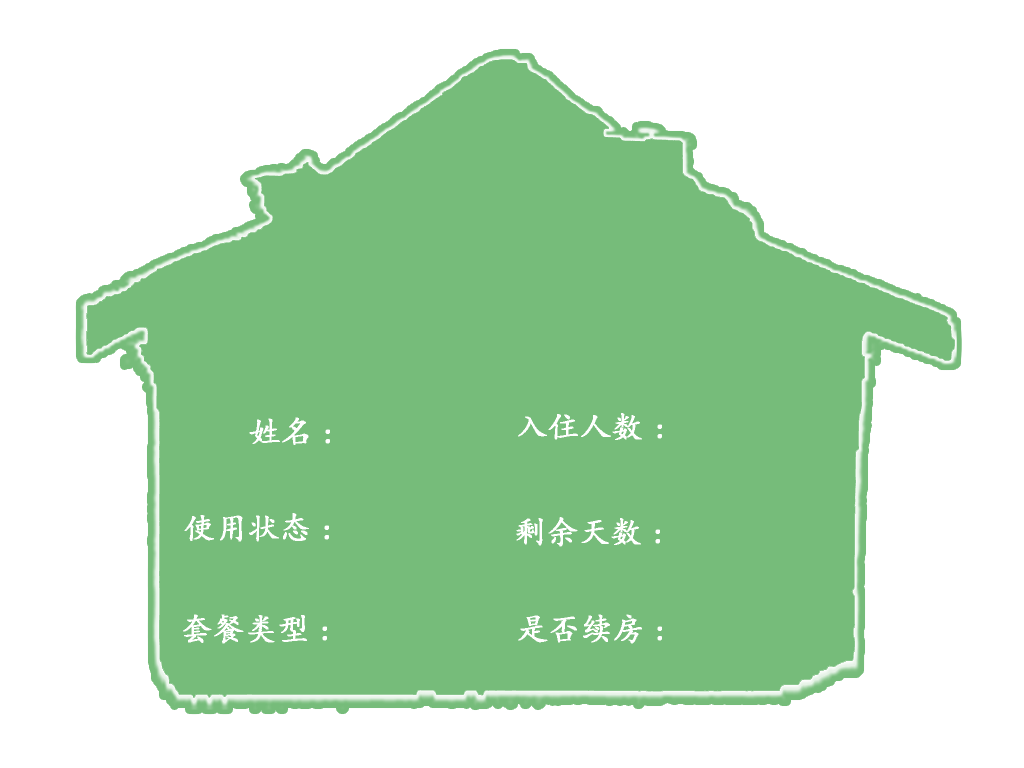
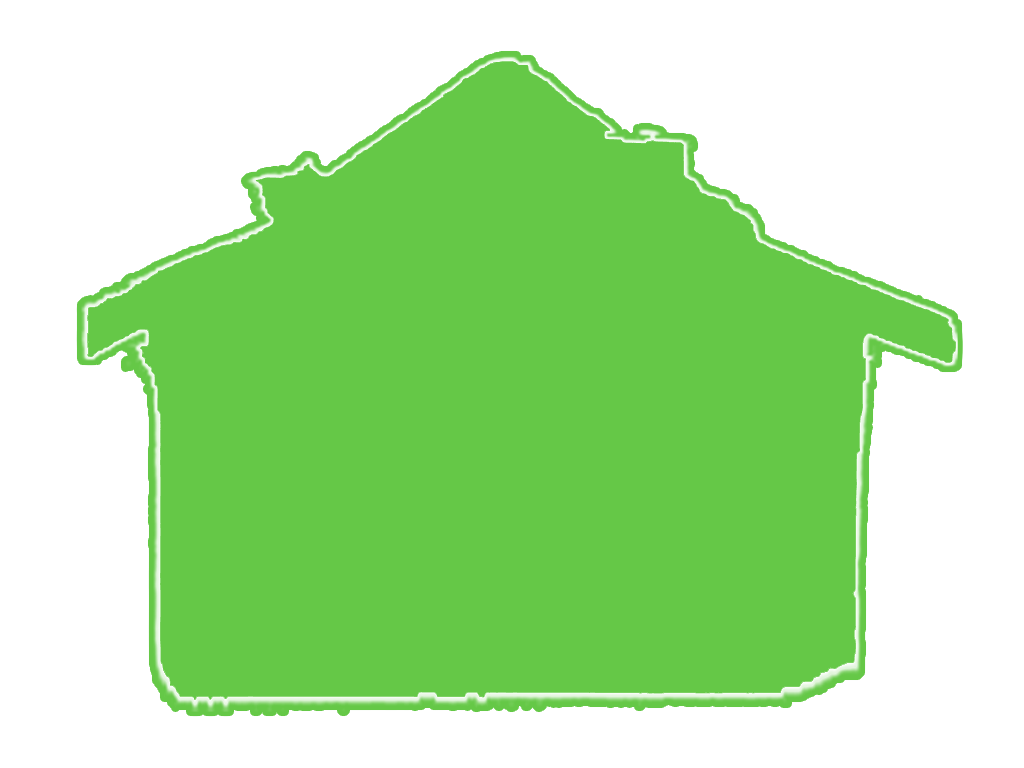
数据对接

diff --git a/js/room.js b/js/room.js
@@ -1,14 +1,101 @@
 /**
  * Created by Administrator on 2018/04/10.
  */
-window.onload = function() {
-    var bh = document.getElementById('body').offsetHeight;
-    var hh = document.getElementById('header').offsetHeight;
-    var fh = document.getElementById('footer').offsetHeight;
-    var sh = bh - hh -fh - 50;
-    document.getElementById('content').style.height = sh + 'px';
-    // console.log(bh);
-    // console.log(hh);
-    // console.log(fh);
-    // console.log(sh);
+var page = 1;  //定义是第几页
+var pageSize = 3; //定义一页几条数据
+var userId = '523C4656-83F7-4AEE-91AB-775F6CE94CE3'; //用户Id
+var allPage = 1;    //总页数
+
+function getList(parameter) {
+    $.ajax({
+        type: "post",
+        data: {
+            "procedureName": 'usp_fangjiansyqk',
+            "parameter": parameter
+        },
+        url: "http://120.78.174.170:86/WebService/BaseInfo.asmx/WebExecProcedure",   //后台url
+        success: function (data) {
+            var roomInfo = eval(eval(data));//所有房间信息
+            var str = "";
+            var state = "";
+            var showInfo = "none"; //是否显示房间信息
+            var showFree = "none"; //是否显示空闲中
+            for (var k in roomInfo.ds1) {
+                //根据使用状态显示背景图以及是否显示房间信息
+                switch (roomInfo.ds1[k].usezt) {
+                    case 1:
+                        console.log("free空闲中...");
+                        state = "free.png";
+                        showInfo = "none";
+                        showFree = "inline-block";
+                        str
+                        break;
+                    case 2:
+                        console.log("reservation已预约...");
+                        state = "reservation.png";
+                        showInfo = "inline-block";
+                        showFree = "none";
+                        break;
+                    case 3:
+                        console.log("using使用中...");
+                        state = "using.png";
+                        showInfo = "inline-block";
+                        showFree = "none";
+                        break;
+                    case 4:
+                        console.log("renew已续费...");
+                        state = "renew.png";
+                        showInfo = "inline-block";
+                        showFree = "none";
+                        break;
+                }
+                str += "<div class=" + "room" + ">"
+                    + "<a href=" + "'http://120.78.174.170:85'" + "><img src=" + "../img/" + state + "></a>"
+                    + "<a class=" + "roomNum" + ">" + roomInfo.ds1[k].name + "</a>"
+                    + "<div class=" + "detailTitle" + " style='display:" + showInfo + "'>"
+                    + "<a>姓&nbsp;&nbsp;&nbsp;&nbsp;&nbsp;&nbsp;名:</a>"
+                    + "<p>入住人数:</p>"
+                    + "<p>使用状态:</p>"
+                    + "<p>剩余天数:</p>"
+                    + "</div>"
+                    + "<div class=" + "detailContent" + " style='display:" + showInfo + "'>"
+                    + "<a>" + roomInfo.ds1[k].name + "</a>"
+                    + "<p>" + roomInfo.ds1[k].ruzhurs + "</p>"
+                    + "<p>" + roomInfo.ds1[k].usezt + "</p>"
+                    + "<p>" + roomInfo.ds1[k].shiyongts + "</p>"
+                    + "</div>"
+                    + "<div class=" + "isFree" + " style='display: " + showFree + "'>空闲中...</div>"
+                    + "</div>";
+
+            }
+            $("#content").html(str);
+
+        }
+    })
+
+};
+
+function showPagination(allPage) {
+    $.ajax({
+        type: "post",
+        data: {
+            "procedureName": 'usp_fangjiansyqk',
+            "parameter": parameter
+        },
+        url: "http://120.78.174.170:86/WebService/BaseInfo.asmx/WebExecProcedure",   //后台url
+        success: function (data) {
+            var roomInfo = eval(eval(data));//所有房间信息
+            var totalPage = roomInfo.ds2[0].pageNum;//总页数
+            $.jqPaginator('#pagination', {
+                totalPages: totalPage,
+                visiblePages: 10,//显示分页条数
+                currentPage: 1
+            });
+        }
+    })
 }
+
+
+var parameter = "'" + userId + "','" + pageSize + "','" + page + "'";
+getList(parameter);
+showPagination(allPage);

diff --git a/room/room.html b/room/room.html
@@ -3,6 +3,7 @@
 <head>
     <meta charset="UTF-8">
     <title>房间</title>
+    <link type="text/css" rel="stylesheet" href="http://cdn.staticfile.org/twitter-bootstrap/3.1.1/css/bootstrap.min.css"/>
     <link href="../css/room.css" rel="stylesheet" type="text/css"/>
 </head>
 <body id="body">
@@ -16,35 +17,28 @@
         <p>Room usage</p>
     </div>
     <div id="navBar">
-        <a>首页</a>|
-        <a>客户管理</a>|
-        <a>资源管理</a>|
-        <a>库存查询</a>|
-        <a>合同单据</a>
+        <a href="http://120.78.174.170:85">首页</a>|
+        <a href="http://120.78.174.170:85">客户管理</a>|
+        <a href="http://120.78.174.170:85">资源管理</a>|
+        <a href="http://120.78.174.170:85">库存查询</a>|
+        <a href="http://120.78.174.170:85">合同单据</a>
     </div>
 </div>
-<div id="content">
-    <div class="room">
-        <img src="../img/using.png">
-    </div>
-    <div class="room">
-        <img src="../img/free.png">
-    </div>
-    <div class="room">
-        <img src="../img/Reservation.png">
-    </div>
-    <div class="room">
-        <img src="../img/Reservation.png">
-    </div>
-</div>
+<div id="content"></div>
 <footer id="footer">
-<div id="navNum">
-    <a>上一页</a>
-    <a>1</a>
-    <a>下一页</a>
-</div>
+    <div id="navNum">
+        <p id="p1"></p>
+        <ul class="pagination" id="pagination"></ul>
+    </div>
+
+
 <p id="techSup">由<a href="#？">蕊妍天时科技</a>提供技术支持</p>
 </footer>
+<script src="http://libs.baidu.com/jquery/1.9.1/jquery.min.js"></script>
+<script src="../js/jqPaginator.js"></script>
 <script src="../js/room.js"></script>
+<script type="text/javascript">
+
+</script>
 </body>
 </html>

diff --git a/css/room.css b/css/room.css
@@ -67,17 +67,61 @@ body{
     text-align: center;
     margin-top: 30px;
     padding: 20px;
-    height: 100%;
 }
 
 .room{
     display: inline-block;
+    position: relative;
 }
 
 .room img{
     /*display: inline-block;*/
     width: 330px;
     height: 270px;
+}
+
+.roomNum {
+    position: absolute;
+    left: 135px;
+    top: 70px;
+    z-index: 2;
+    line-height: 50px;
+    font-size: 1.2em;
+}
+
+.detailTitle{
+    position: absolute;
+    left: 90px;
+    top: 125px;
+    z-index: 2;
+}
+
+.detailContent{
+    position: absolute;
+    left: 170px;
+    top: 125px;
+    z-index: 2;
+}
+
+.detailTitle a,
+.detailContent a{
+    font-size: .7em;
+    color: #fff;
+}
+
+.detailTitle p,
+.detailContent p{
+    font-size: .7em;
+    color: #fff;
+    margin: 5px;
+}
+
+.isFree{
+    position: absolute;
+    left: 130px;
+    top: 150px;
+    z-index: 2;
+    color: #FFFFFF;
 }
 
 #navNum{
@@ -113,4 +157,13 @@ a:hover {
     text-decoration: none;
     cursor: pointer;
     color: #fff;
+}
+
+#footer {
+    margin-top: 50px;
+}
+
+#footer a{
+    margin-right: 10px;
+    color: royalblue;
 }
